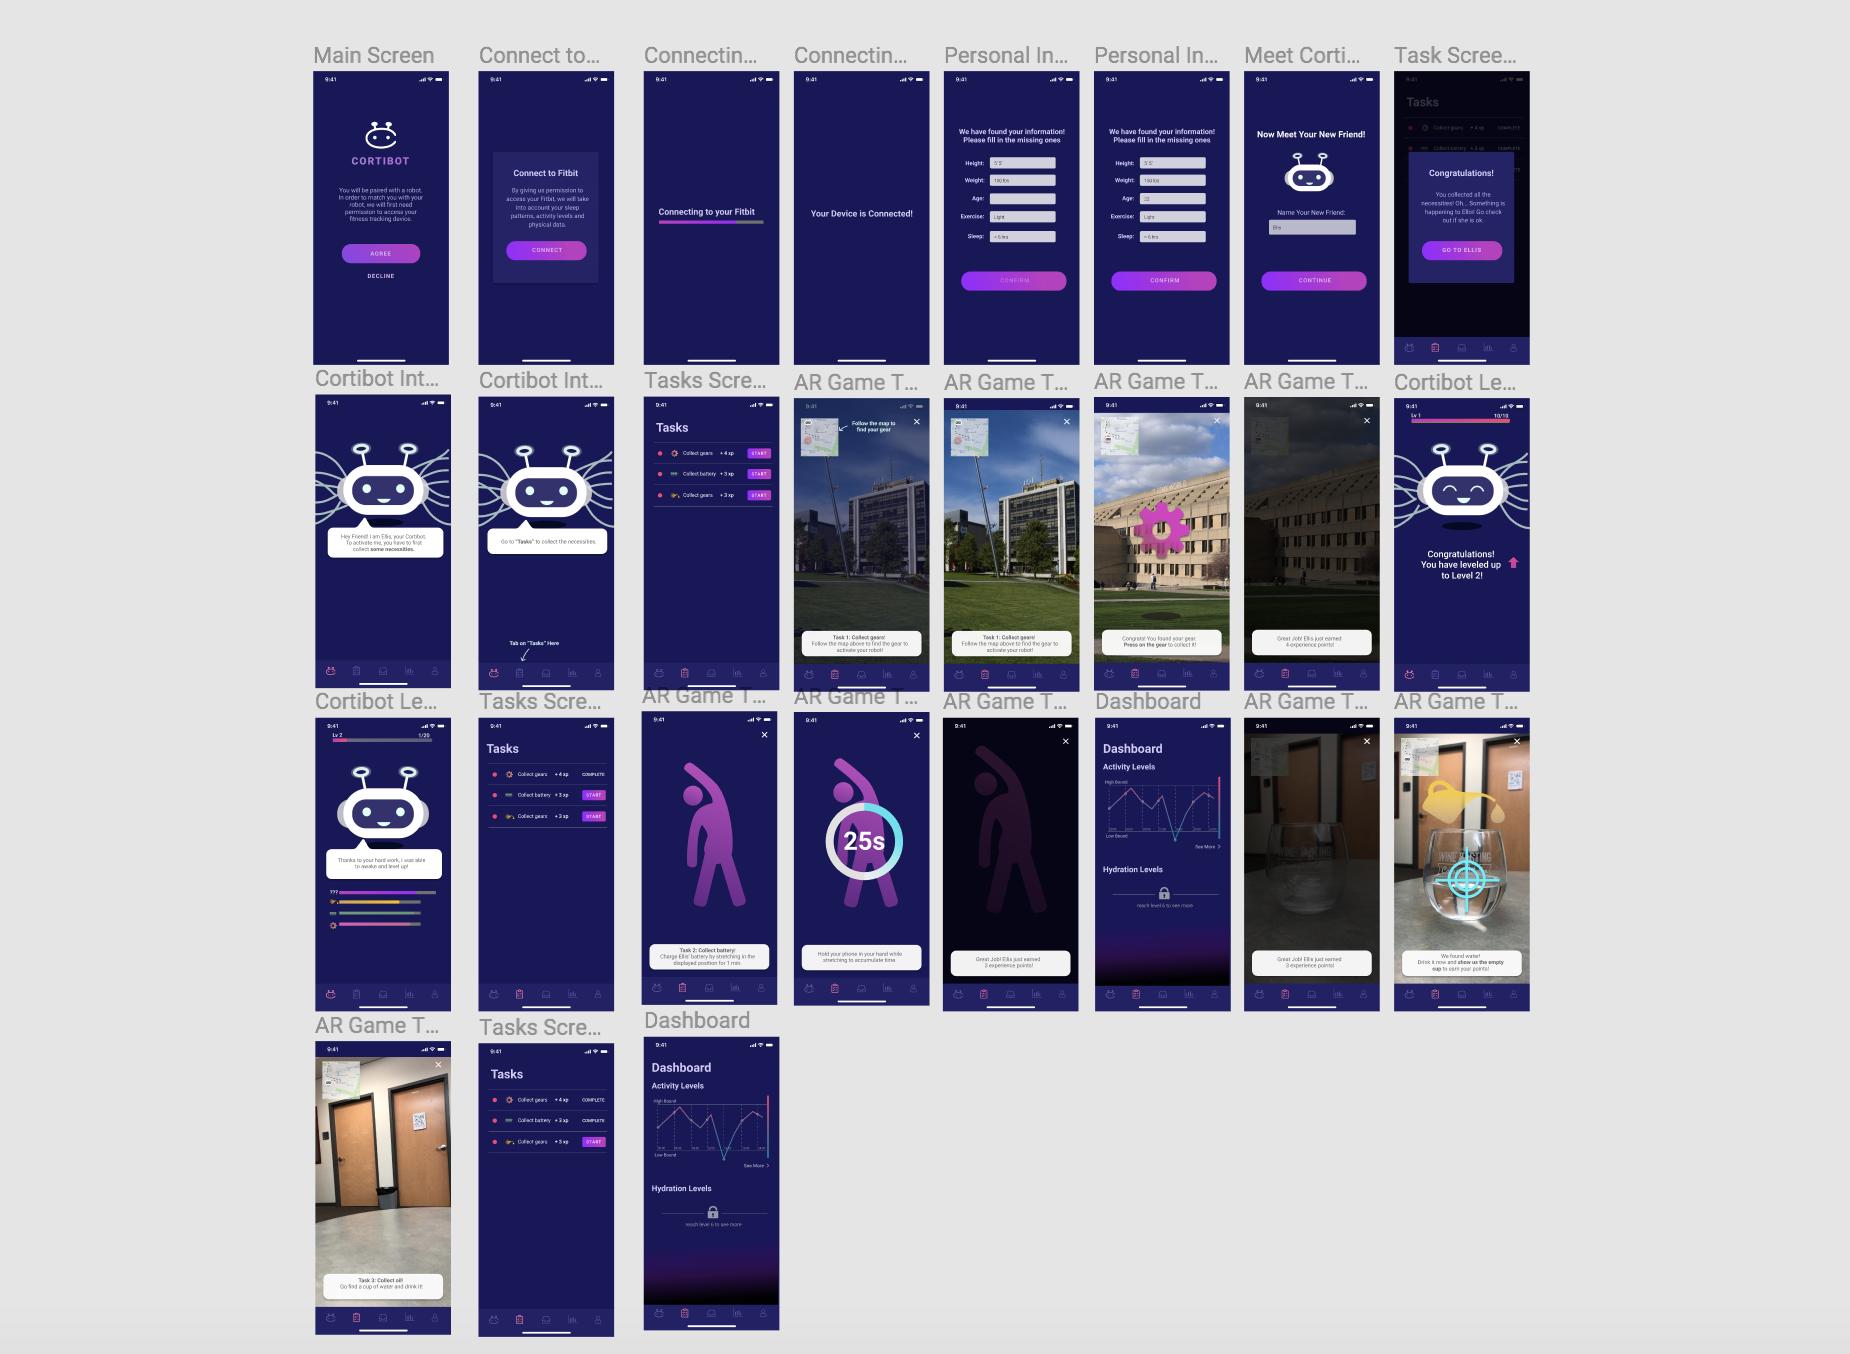
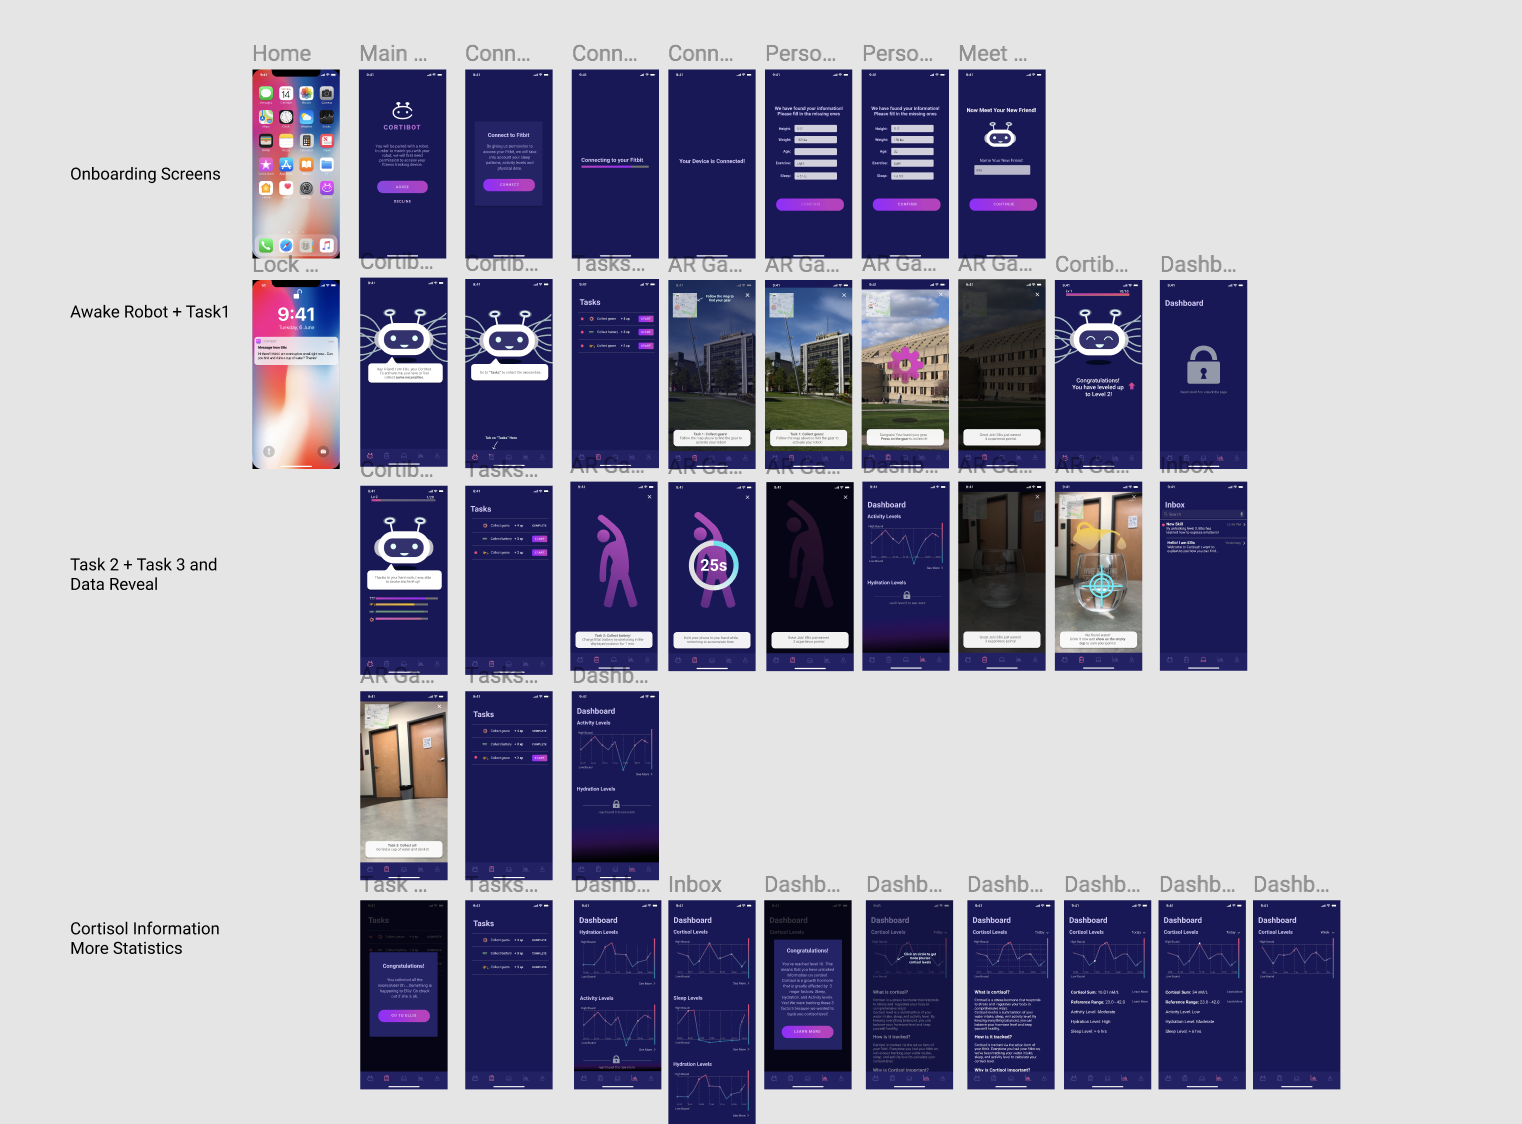
updates

diff --git a/html/cortibot.html b/html/cortibot.html
@@ -79,9 +79,9 @@
           <div class = "intro" id = "intro" data-aos="fade-up" data-aos-duration="600">
           <div class = "secheader">Introduction</div>
 
-          <p>We have all heard this saying once, “You are what you eat.” With unreasonable beauty standards that Hollywood and celebrities portray through media, we have started to associate beauty and health with the shape of our bodies. However, we have misconceived notions on what is considered “healthy.” Health is not strictly based on how much you eat or how much exercise you get, albeit important factors. The hormones, or lack thereof, that you secrete is what defines you as a healthy individual.</p>
+          <p>We have all heard this saying once, “You are what you eat.” With <span class = "inlinetext">unreasonable beauty standards </span> that Hollywood and celebrities portray through media, we have started to associate beauty and health with the shape of our bodies. However, we have misconceived notions on what is considered “healthy.” Health is not strictly based on how much you eat or how much exercise you get, albeit important factors. The hormones, or lack thereof, that you secrete is what defines you as a healthy individual.</p>
 
-          <p>For this project, our team decided to create an intervention through either a mobile app or wearable that tracks and manages the level of growth hormones secreting in our body.</p>
+          <p>For this project, our team decided to create an <span class = "inlinetext">intervention </span> through either a mobile app or wearable that tracks and manages the <span class = "inlinetext">level of growth hormones </span> secreting in our body.</p>
 
 
         </div>
@@ -91,7 +91,7 @@
           <div class = "opportunity" id = "opportunity" data-aos="fade-up" data-aos-duration="600">
             <div class = "secheader">Opportunity Space</div>
 
-            <p>Even with the growth and advancement of fitness-tracking technology, the belief that weight and thinness are accurate measures of health and fitness is still highly prevalent. Although this is partially due to the unrealistic standards set by the airbrushed images that dominate magazine covers, this is also partially because stepping on a scale is one of the most accessible, automated forms of body measurement. Therefore, it comes as no surprise that weight is one of the most common ways to gauge individual fitness. As a result, people still commonly hold and work towards weight goals, as opposed to goals of other measures.  </p> 
+            <p>Even with the growth and advancement of fitness-tracking technology, the belief that weight and thinness are accurate measures of health and fitness is still highly prevalent. Although this is partially due to the unrealistic standards set by the airbrushed images that dominate magazine covers, this is also partially because stepping on a scale is one of the most accessible, automated forms of body measurement. Therefore, it comes as no surprise that weight is one of the most common ways to gauge individual fitness. As a result, <span class = "inlinetext">people still commonly hold and work towards weight goals, as opposed to goals of other measures. </span>  </p> 
           </div>
         
 
@@ -145,7 +145,7 @@
 
 
 
-              <p>Some users liked the intervention aspect of our application, but others suggested that we could make our tasks more challenging. For example, we could make users complete increasingly difficult tasks to capture gears. Currently, the tasks can be completed almost effortlessly, making the game too easy and less engaging. Additionally, some people suggested that we should incorporate more opportunities to interact with their robot to form stronger relationships and emotional attachment, especially given that our design relies heavily on this emotional bond for users to continue using the app. </p>
+              <p>Some users liked the intervention aspect of our application, but others suggested that we could <span class = "inlinetext">make our tasks more challenging </span>. For example, we could make users complete increasingly difficult tasks to capture gears. Currently, the tasks can be completed almost effortlessly, making the game too easy and less engaging. Additionally, some people suggested that we should incorporate more opportunities to interact with their robot to form stronger relationships and emotional attachment, especially given that our design relies heavily on this emotional bond for users to continue using the app. </p>
 
 
                <img src = "../assets/img/cortilowfi.png" style = "width:100% "alt ="Demo1" >
@@ -163,7 +163,7 @@
 
              
               <p> We decided to reframe our information hierarchy and then visualize them consistently. For instance, the task page would only have tasks with consistent title, content, and points. As we tested through the prototype with the user, we also realized that the order that we revealed the information according to the menu bar might not align with our intention. </p> 
-              <p>We decided to change the order of the task menu and the track menu so that users can prioritize completing the tasks rather than tracking the numbers. This change would better serve our goal of the app. Finally, we realized the way we represented the metaphors was not providing sufficient information for users to understand the purpose of the app, and what actions need to be taken for each steps. Based on the user’s feedback, we decided to specify the components of the HP or Level.  </p>
+              <p>We decided to <span class = "inlinetext">change the order of the task menu </span> and the track menu so that users can <span class = "inlinetext">prioritize completing the tasks </span> rather than tracking the numbers. This change would better serve our goal of the app. Finally, we realized the way we represented the metaphors was not providing sufficient information for users to understand the purpose of the app, and what actions need to be taken for each steps. Based on the user’s feedback, we decided to specify the components of the HP or Level.  </p>
 
               
 
@@ -221,6 +221,8 @@
               Setting difficult but attainable goals could enhance user’s performance.
               Different game element serves different psychological needs. Avatars, meaningful stories serves need for social relatedness and need for autonomy (decision freedom and task meaningfulness.
               </p>
+
+              <img src = "../assets/img/cortistats.png" style = "width:100%;"></img> 
 
 
 

diff --git a/assets/css/portfolio.css b/assets/css/portfolio.css
@@ -496,11 +496,13 @@ a:hover, a:focus, a:active {
 
 .myName{
   font-size:45px;
-  padding-bottom:5px;
+  padding-bottom:8px;
+  color:#6eaff7;
+
 }
 
 .myName:hover{
-  color:#6eaff7;
+  color:#5f87ea;
 }
 
 

diff --git a/assets/css/hover.css b/assets/css/hover.css
@@ -2188,7 +2188,7 @@
   left: 51%;
   right: 51%;
   bottom: 0;
-  background: #2098D1;
+  background: #6eaff7;
   height: 4px;
   -webkit-transition-property: left, right;
   transition-property: left, right;
